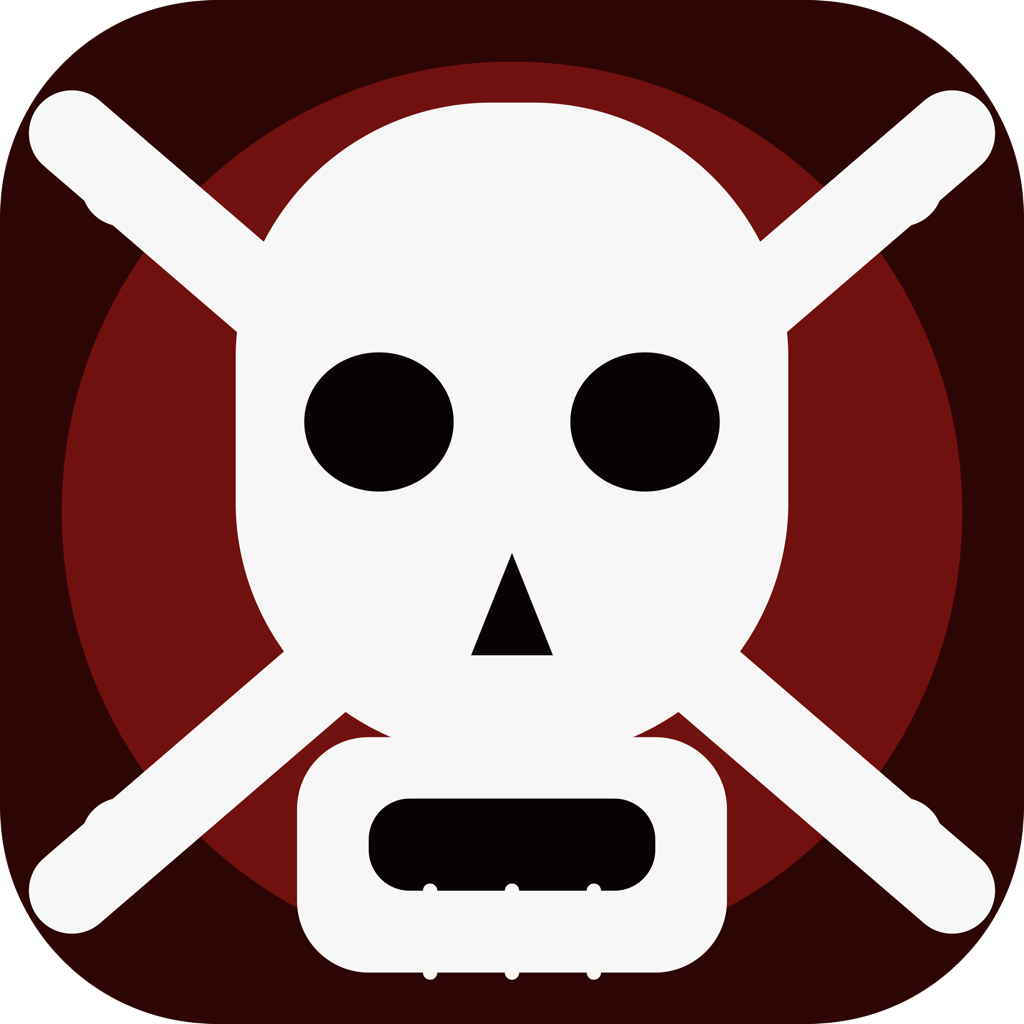
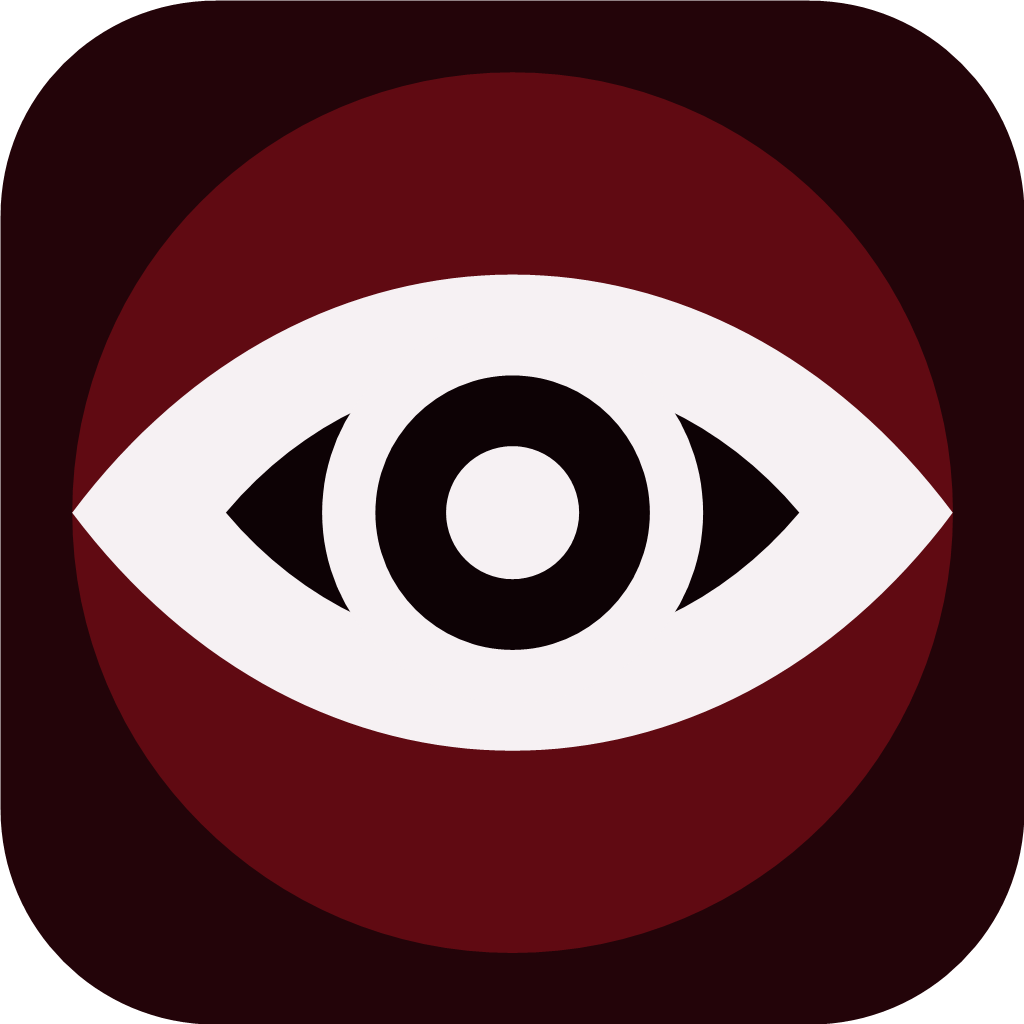
Update support branding to the Trust But Verify eye

diff --git a/index.html b/index.html
@@ -11,7 +11,7 @@
 <body>
   <main>
     <header class="brand">
-      <img src="icon.png" width="104" height="104" alt="Skull and crossbones app icon">
+      <img src="icon.png" width="104" height="104" alt="Trust But Verify eye app icon">
       <div>
         <p class="eyebrow">System unattended monitor</p>
         <h1>Trust But Verify</h1>
@@ -20,7 +20,7 @@
     </header>
     <section class="panel">
       <h2>Watch only when you arm it</h2>
-      <p>Arm the skull in the menu bar or system tray, or let the optional inactivity timer do it. A click or key press while armed can flash every screen red, play a deliberately harsh alarm, show a warning, and save screenshots plus camera photos locally.</p>
+      <p>Arm the eye in the menu bar or system tray, or let the optional inactivity timer do it. A click or key press while armed can flash every screen red, play a deliberately harsh alarm, show a warning, and save screenshots plus camera photos locally.</p>
       <p>Choose silent evidence mode, select individual screens and cameras, set your own activation and deactivation gestures, and decide whether a disarm still saves evidence.</p>
     </section>
     <section class="facts">
@@ -36,4 +36,3 @@
   </main>
 </body>
 </html>
-

diff --git a/support.html b/support.html
@@ -19,11 +19,10 @@
       <h2>Permission checklist</h2>
       <p>On macOS, check Camera, Screen Recording, Accessibility for the Direct edition, and Input Monitoring. On Windows, check Camera privacy settings under Settings &gt; Privacy &amp; security.</p>
       <h2>Before contacting support</h2>
-      <p>Confirm the skull is armed, auto-arm is configured as intended, and the chosen shortcut is registered. For evidence issues, open the evidence folder from Privacy settings.</p>
+      <p>Confirm the eye is armed, auto-arm is configured as intended, and the chosen shortcut is registered. For evidence issues, open the evidence folder from Privacy settings.</p>
     </section>
     <nav><a href="index.html">Home</a><a href="privacy.html">Privacy policy</a></nav>
     <footer>Trust But Verify is maintained by Jared Reabow.</footer>
   </main>
 </body>
 </html>
-

diff --git a/styles.css b/styles.css
@@ -121,4 +121,3 @@ footer {
   .brand img { width: 76px; height: 76px; }
   .facts { grid-template-columns: 1fr; }
 }
-

diff --git a/privacy.html b/privacy.html
@@ -32,4 +32,3 @@
   </main>
 </body>
 </html>
-
